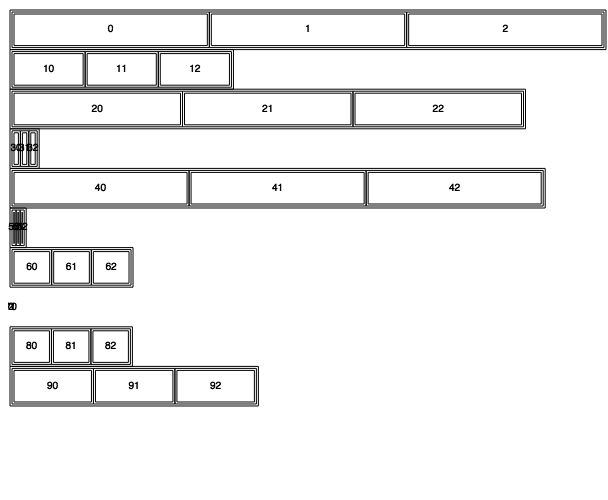
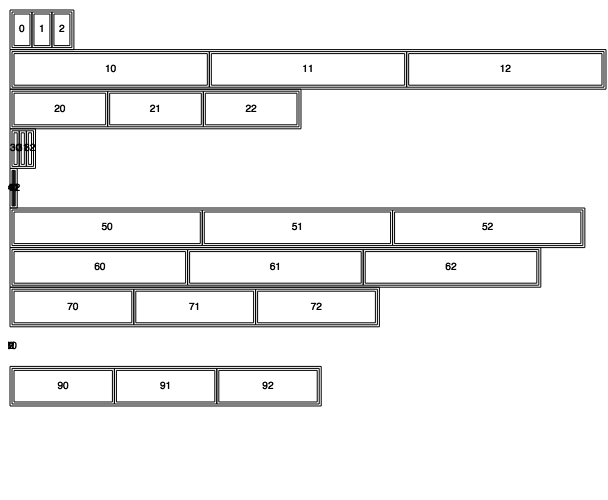
Third layer and fixes

diff --git a/example/line25d/layers-25D.html b/example/line25d/layers-25D.html
@@ -29,7 +29,7 @@ path {
 <script>
 
 // TODO
-
+// [X] Add third layer
 
 var width = 800,
     height = 600;
@@ -56,6 +56,16 @@ d3.range(10).map(function(f, k) {
   data2.push({r: 0, g: 0, b: k});
 });
 
+var gridding3 = d3.gridding()
+  .size([width, height])
+  .mode("horizontal");
+
+var data3 = [];
+
+d3.range(10).map(function(f, k) {
+  data3.push({r: 0, g: 0, b: k});
+});
+
 
 var is_down = false;
 var posX = 0
@@ -63,11 +73,11 @@ var posX = 0
 var dx = 300;
 var dy = 100;
 
-var dx2 = 1600;
+var dx2 = 1400;
 var dy2 = 2500;
 
-var dx3 = 1600;
-var dy3 = 2500;
+var dx3 = 2200;
+var dy3 = 4100;
 
 var svg = d3.select("body").append("svg")
     .attr("width", width)
@@ -92,13 +102,26 @@ squares.enter()
     .attr("height", function(d) { return d.height; })
     .attr("transform", function(d) { return "translate(" + d.x + "," + d.y + ")"; })
     .style("fill", function(d, i) { return "white"; })
-    .style("fill-opacity", .8);
+    .style("fill-opacity", 1);
 
 
 var squares2 = svgSquares2.selectAll(".square")
   .data(gridding2(data2), function(d) { return d.index; });
 
 squares2.enter()
+  .append("rect")
+    .attr("class", "square")
+    .attr("width", function(d) { return d.width; })
+    .attr("height", function(d) { return d.height; })
+    .attr("transform", function(d) { return "translate(" + d.x + "," + d.y + ")"; })
+    .style("fill", function(d, i) { return "white"; })
+    .style("fill-opacity", 1);
+
+
+var squares3 = svgSquares3.selectAll(".square")
+  .data(gridding3(data3), function(d) { return d.index; });
+
+squares3.enter()
   .append("rect")
     .attr("class", "square")
     .attr("width", function(d) { return d.width; })
